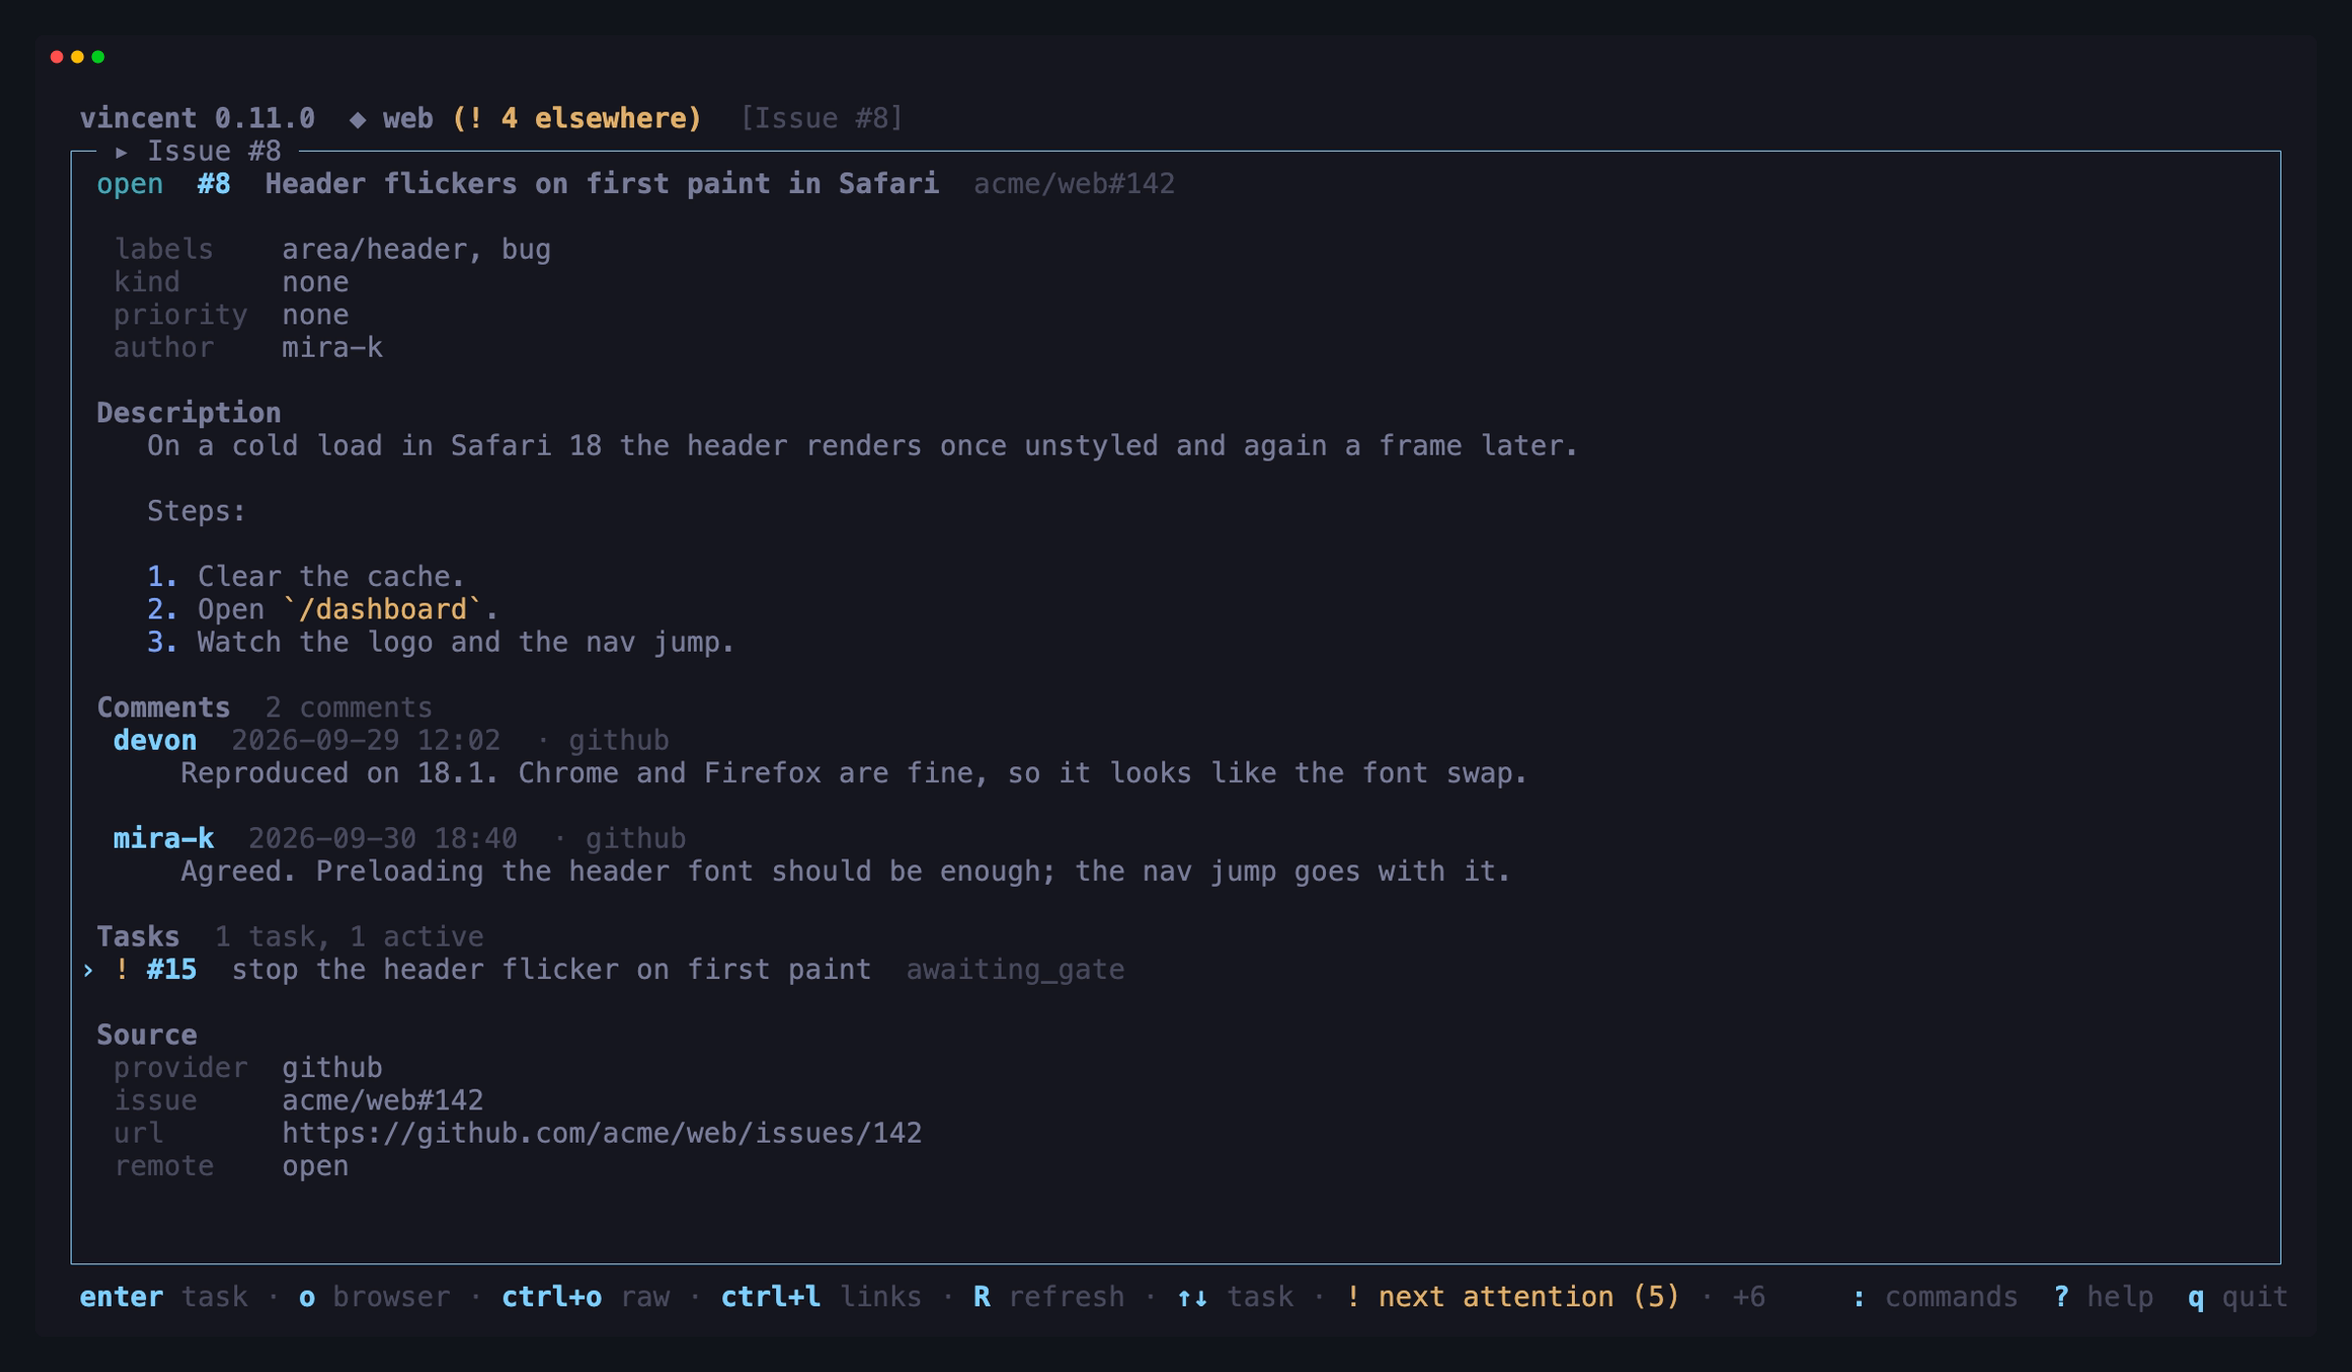
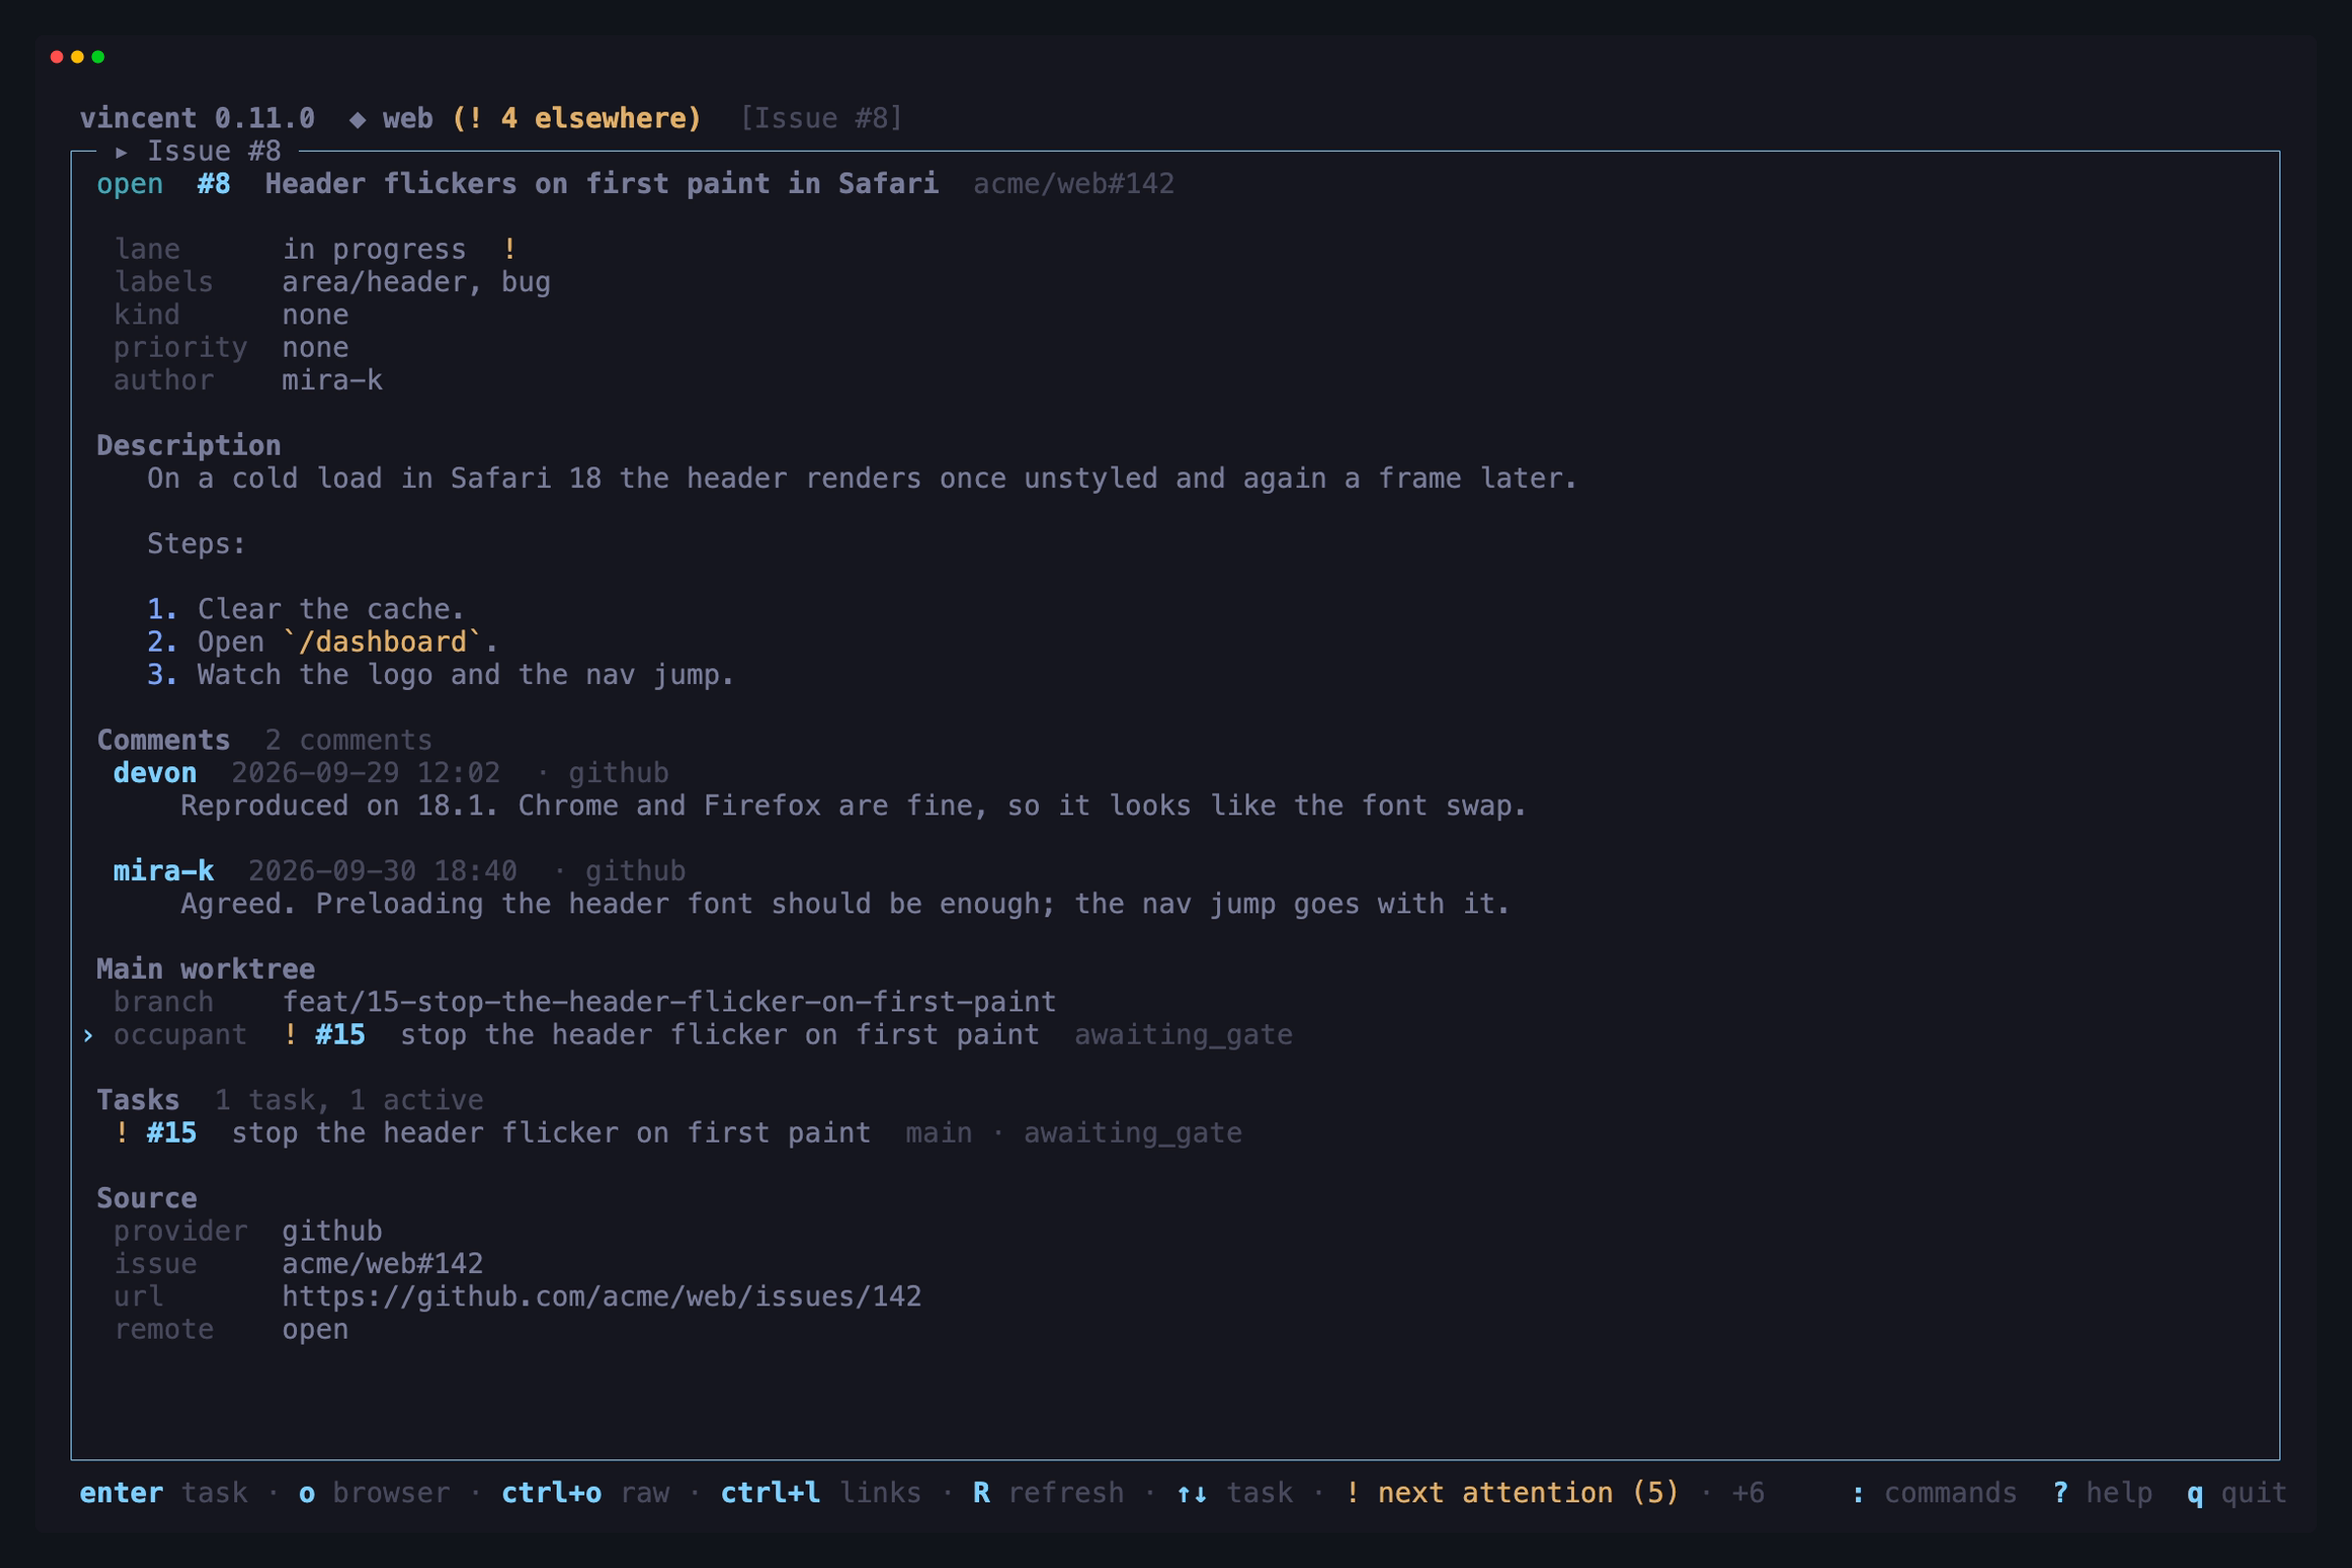
docs(screenshots): seed every issue lane and re-capture the issue shots
The issues board is photographed on platform-infra, the one project whose
seeded tasks already end in every state a lane needs: three existing tasks
(the blocked loop, the paused postmortem, the archived DNS rollback) are
linked to new issues, and one more issue is closed as completed, so all
four lanes are populated and no task id moves. The new issues are created
after the GitHub import so the imported issues keep their ids.

tui-issues shows the four lanes with done toggled on; tui-issue grows to
fit its lane fact and Main worktree section without clipping Source; the
project overview is re-captured for platform-infra's issue count. The
board walkthrough is recorded in docs/gates/134-issues-board.md.

Closes 134.19.

diff --git a/docs/gates/134-issues-board.md b/docs/gates/134-issues-board.md
@@ -1,0 +1,58 @@
+# Task 134 walkthrough — the issues board
+
+**Acceptance (task 134.19):** the issues view reads as a board of four lanes —
+`open`, `in progress`, `hand-off` and `done` — with `done` hidden until asked
+for, legibly at the 80×20 floor, following lane moves with no keypress; and
+`a` on an issue whose main worktree is busy offers the side worktree.
+
+This walkthrough has **no script**, for the reason M3's,
+[017](017-workflow-graph.md)'s and [129](129-monitoring.md)'s have none: what
+is judged is whether a screen reads, not what the API returns. The behaviour
+underneath is asserted elsewhere — the lane derivation by `internal/store`'s
+table test against `issuestate.LaneOf`, the sections, folds and `s` toggle by
+`internal/tui`'s tests, the occupant rule and both merge-back modes end to end
+by [`134-gate.sh`](134-issue-worktrees.md) — and the guide's issues key table
+is held to the binding registry by `TestGuideKeyTablesMatchRegistry`.
+
+The pictures are `scripts/screenshots.sh`'s `tui-issues` (the board, `done`
+shown) and `tui-issue` (an issue's detail with its Main worktree section).
+
+## Setup
+
+The screenshot seed is the workload. platform-infra has an issue in every
+lane, and none of it adds a task — three tasks the seed already had are
+linked to issues, so no task id moves:
+
+| Lane | Issue | Why |
+|---|---|---|
+| `open` | #4, #5 | no task |
+| `in progress` `!` | #9 | its main task, the loop, is `blocked` |
+| `in progress` | #10 | its main task, the postmortem, is `paused` |
+| `hand-off` | #11 | its only task ended `done` and was archived |
+| `done` | #12 | closed as completed |
+
+```sh
+./scripts/screenshots.sh seed
+export VINCENT_CONFIG_DIR=/tmp/vincent-demo/config VINCENT_DATA_DIR=/tmp/vincent-demo/data
+/tmp/vincent-demo/bin/vincent --project platform-infra
+```
+
+`./scripts/screenshots.sh clean` stops the daemon and removes the tree.
+
+## Legs
+
+| # | Do | Expect |
+|---|---|---|
+| 1 | `vincent issue ls --project <platform-infra's id>` in a second shell | `LANE` reads as the table above |
+| 2 | In an 80×20 terminal, `:issues` | Three sections, `open`, `in progress` (with `! 1`), `hand-off`, each with its count; the totals line ends `· done hidden (s)`; no closed row; titles truncate before the counts do |
+| 3 | `s` | A fourth `done` section, last, holding #12 as `closed · completed`; the totals line ends `· 1 done` |
+| 4 | `C`, then `O` | Every section folds to its header with its count and badge, the cursor resting on a header; `O` unfolds them |
+| 5 | In the second shell, `vincent issue close 4` | With no keypress, #4 leaves `open` for `done`, and the totals move to `1 open … 2 done`. `vincent issue reopen 4` puts it back |
+| 6 | `/tenant_id`, `enter`, `a` | The new-task form, `worktree` preselected `separate`, a note naming the occupant (`main worktree busy with #7`), and a `merge back` row |
+| 7 | On the web project, `:issues`, `/flickers`, `enter`, `enter` | The detail's `lane` fact reads `in progress !`, and the Main worktree section names the branch and its occupant at `awaiting_gate`; the Source section is in full |
+
+## Runs
+
+| Date | Terminal | Result | By |
+|---|---|---|---|
+| 2026-10-08 | VHS 0.11.0 on macOS (darwin/arm64), 80×20 via `stty` for legs 2–5 | PASS, all seven legs. | task 134.19 |

diff --git a/docs/features.md b/docs/features.md
@@ -430,9 +430,9 @@ In detail:
   a shell, `vincent issue` lists, shows, files, edits, comments on, closes,
   reopens and deletes them.
 
-  ![The issues screen listing api's issues, open and closed: three local
-  issues with their labels and kinds, one closed as not
-  planned](assets/tui-issues.png)
+  ![The issues board on platform-infra with all four lanes shown: open,
+  in progress with a `!` for a blocked task, hand-off for finished work, and
+  done for an issue closed as completed](assets/tui-issues.png)
 - The workflow graph visualizes parallel groups, fan-out lanes and merges,
   the `needs:` edges between lanes and the waves they run in, conditions,
   loops, guards, checks, and nested includes — and, on a task's own Workflow
@@ -575,10 +575,10 @@ branch, and merges back when it is done — a conflict either blocks for you or
 goes to an agent first. [Working an issue](guides/issues.md) tells the whole
 story.
 
-![An issue imported from acme/web#142: its labels, its Markdown description,
-the two comments mirrored from GitHub, the task started from it waiting at its
-gate, and the Source section naming the GitHub issue and its
-URL](assets/tui-issue.png)
+![An issue imported from acme/web#142: its lane, its labels, its Markdown
+description, the two comments mirrored from GitHub, the Main worktree section
+naming the task that holds it, waiting at its gate, and the Source section
+naming the GitHub issue and its URL](assets/tui-issue.png)
 
 On a project whose `origin` remote points at github.com, vincent imports the
 repository's issues into the project's own [issues](#operate-from-a-purpose-built-tui) on every

diff --git a/docs/guides/tui.md b/docs/guides/tui.md
@@ -1895,9 +1895,10 @@ Any change to an issue, or to a task
 of an issue on the screen, re-lists it with no keypress, and the selection
 follows the issue into whatever lane it moved to.
 
-![The issues list on api, scoped to all issues: its three local issues with
-their labels and kinds, one of them closed as not
-planned](../assets/tui-issues.png)
+![The issues board on platform-infra with the done lane shown: two open
+issues with no task, two in progress (one with a `!` for its blocked task),
+one in hand-off whose task finished, and one done, closed as
+completed](../assets/tui-issues.png)
 
 | Key | Does |
 |---|---|
@@ -1930,9 +1931,10 @@ merges; and, for an imported issue,
 where it came from — the URL and the state GitHub last reported; and the
 discussion thread under the description, described below.
 
-![The detail of an issue imported from acme/web#142: labels, kind, priority
-and author, the description rendered as Markdown, two comments marked
-`· github`, the task started from it at its gate, and the Source
+![The detail of an issue imported from acme/web#142: its lane, labels,
+kind, priority and author, the description rendered as Markdown, two comments
+marked `· github`, the Main worktree section naming the branch and the task
+holding it at its gate, that task marked `main`, and the Source
 section](../assets/tui-issue.png)
 
 | Key | Does |

diff --git a/docs/tasks/134-issues-ux.md b/docs/tasks/134-issues-ux.md
@@ -1,6 +1,6 @@
 # 134 — Issues UX: a four-lane issues board and one main worktree per issue
 
-**Status:** 🔄 in progress (18/19)
+**Status:** ✅ done (19/19)
 
 Issue [#748](https://github.com/lezli01/vincent/issues/748), part of
 [#747](https://github.com/lezli01/vincent/issues/747), the epic. Spec §5.6 in
@@ -708,6 +708,11 @@ sections and public pages its code makes true, in its own pull request.
   blocks and every surface — linked from the docs index, features, the FAQ
   and the root README; the TUI's side-task rows stay with 134.16.
   ✓ 2026-10-08
-- [ ] **134.19** ([#766](https://github.com/lezli01/vincent/issues/766)) Seeds
+- [x] **134.19** ([#766](https://github.com/lezli01/vincent/issues/766)) Seeds
   for every lane, the re-captured pictures and the walkthrough.
   Depends: 134.16.
+  platform-infra is the board project: three tasks it already had are linked
+  to new issues, so no task id moves; `tui-issues` shows all four lanes and
+  `tui-issue` the Main worktree section. The walkthrough is
+  [`docs/gates/134-issues-board.md`](../gates/134-issues-board.md).
+  ✓ 2026-10-08

diff --git a/CLAUDE.md b/CLAUDE.md
@@ -235,10 +235,10 @@ the images under `docs/assets/tui-*.png`. It seeds a throwaway installation —
 its own config and data dirs, its own `$HOME` (so the skills and status-line
 rows are the seed's, not yours), seven git repos (one a GitHub project, answered
 by `cmd/fakegh`), a daemon, twenty-one tasks (a two-round fan-out and a loop
-among them, three archived, one started from an issue), eight chats (four
-live, two archived and two closed on a task) and eight issues (five local, one
+among them, three archived, four started from an issue), eight chats (four
+live, two archived and two closed on a task) and twelve issues (nine local, two
 of them closed, and three imported from the fake GitHub with a mirrored
-thread) covering every state — and photographs the running TUI with VHS
+thread, platform-infra's filling every lane) covering every state — and photographs the running TUI with VHS
 (`brew install vhs`).
 Documentation never draws a screen: no ASCII mock-ups of panels, no hand-written
 "example" frames. If a panel changed, re-run the script:

diff --git a/docs/tasks/README.md b/docs/tasks/README.md
@@ -147,7 +147,7 @@ the living engineering specification records implementation contracts.
 | [131](131-versioned-pages-site.md) | A versioned documentation site: latest release by default, older releases and `dev` selectable | ⚠ verification blocked (5/6) |
 | [132](132-project-as-root.md) | Project as root: the TUI scoped to one selected project, with a project overview as the only multi-project view | 🔄 in progress (17/18) |
 | [133](133-background-work-across-a-result.md) | Background work across a result: keep the claude run open until the work it started finishes | ✅ done (2/2) |
-| [134](134-issues-ux.md) | Issues UX: a four-lane issues board and one main worktree per issue, with manual or agentic merge-back | 🔄 in progress (18/19) |
+| [134](134-issues-ux.md) | Issues UX: a four-lane issues board and one main worktree per issue, with manual or agentic merge-back | ✅ done (19/19) |
 
 ## How to add and update a task document
 
